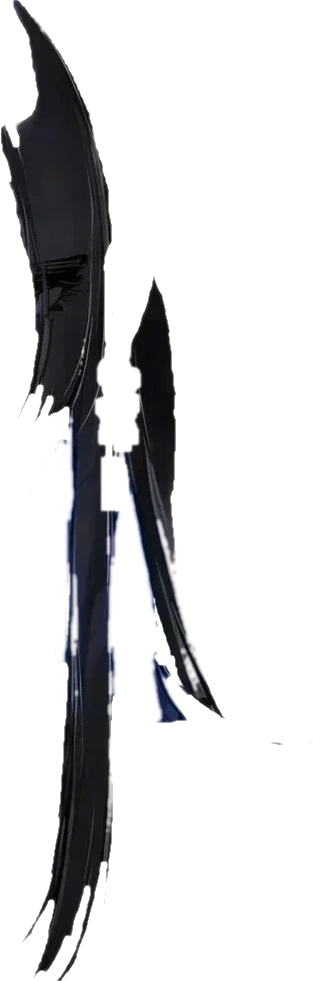
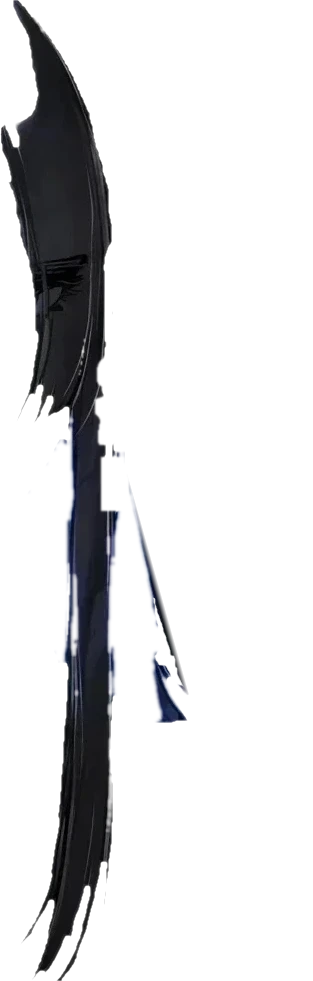
오른쪽 바깥 결 고정, 이름표 한글 제거
Claude-Session: https://claude.ai/code/session_015z2jERGhkXRnxmKCmzk3Uw

Changed region(s): [[0.3738, 0.2752, 0.7188, 0.7339]]

diff --git a/index.html b/index.html
@@ -187,7 +187,7 @@
       <canvas id="c"></canvas>
       <svg id="haloF"></svg>
     </div>
-    <div id="stageLbl"><b>CÉLESTE</b><span id="stageName">plâtre · 석고</span></div>
+    <div id="stageLbl"><b>CÉLESTE</b><span id="stageName">plâtre</span></div>
     <div id="doves"></div>
   </main>
 
@@ -631,7 +631,7 @@ function paint(){
   $('time').classList.toggle('rest', phase !== 'focus' && mode !== 'idle');
   const p = progress();
   paintMoon(p);
-  $('stageName').textContent = plasterWanted() ? 'plâtre · 석고' : 'éveil · 깨어남';
+  $('stageName').textContent = plasterWanted() ? 'plâtre' : 'éveil';
   $('quit').hidden = mode === 'idle' || mode === 'finished' && phase === 'focus';
   // 세트 표시: ●●○○ + 지금 단계
   const dots = Array.from({length:ROUNDS}, (_, i)=>'<i class="' + (i < rounds ? 'on' : i === rounds && phase === 'focus' && mode !== 'idle' ? 'now' : '') + '"></i>').join('');

diff --git a/sw.js b/sw.js
@@ -1,5 +1,5 @@
 // 오프라인 캐시. 배포할 때마다 버전이 오른다(tools/celeste_deploy.py)
-const CACHE = 'bleu-minuit-v32';
+const CACHE = 'bleu-minuit-v34';
 const FILES = [
  "rig/under.webp",
  "rig/back_hair.webp",
@@ -28,6 +28,7 @@ const FILES = [
  "rig/strand00.webp",
  "rig/strand01.webp",
  "rig/strand02.webp",
+ "rig/strand02s.webp",
  "rig/earMoon.webp",
  "rig/earStar.webp",
  "rig/front_hair.webp",
